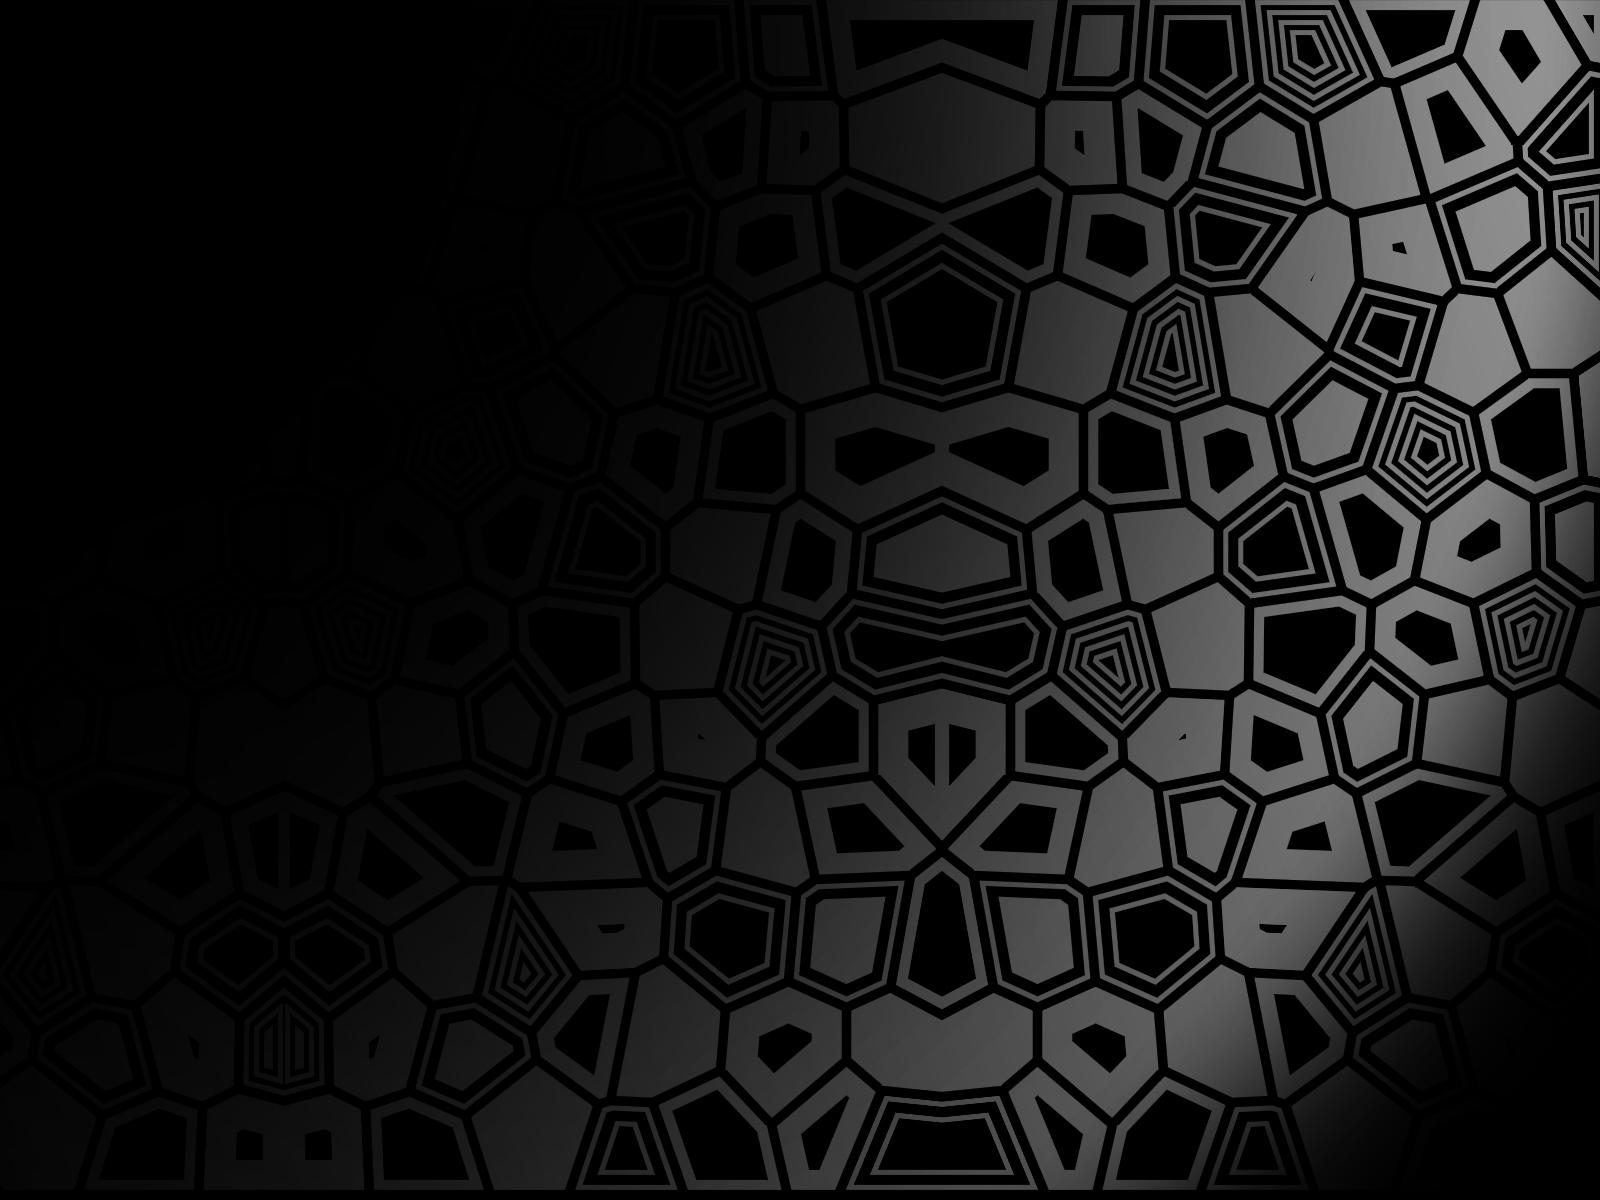
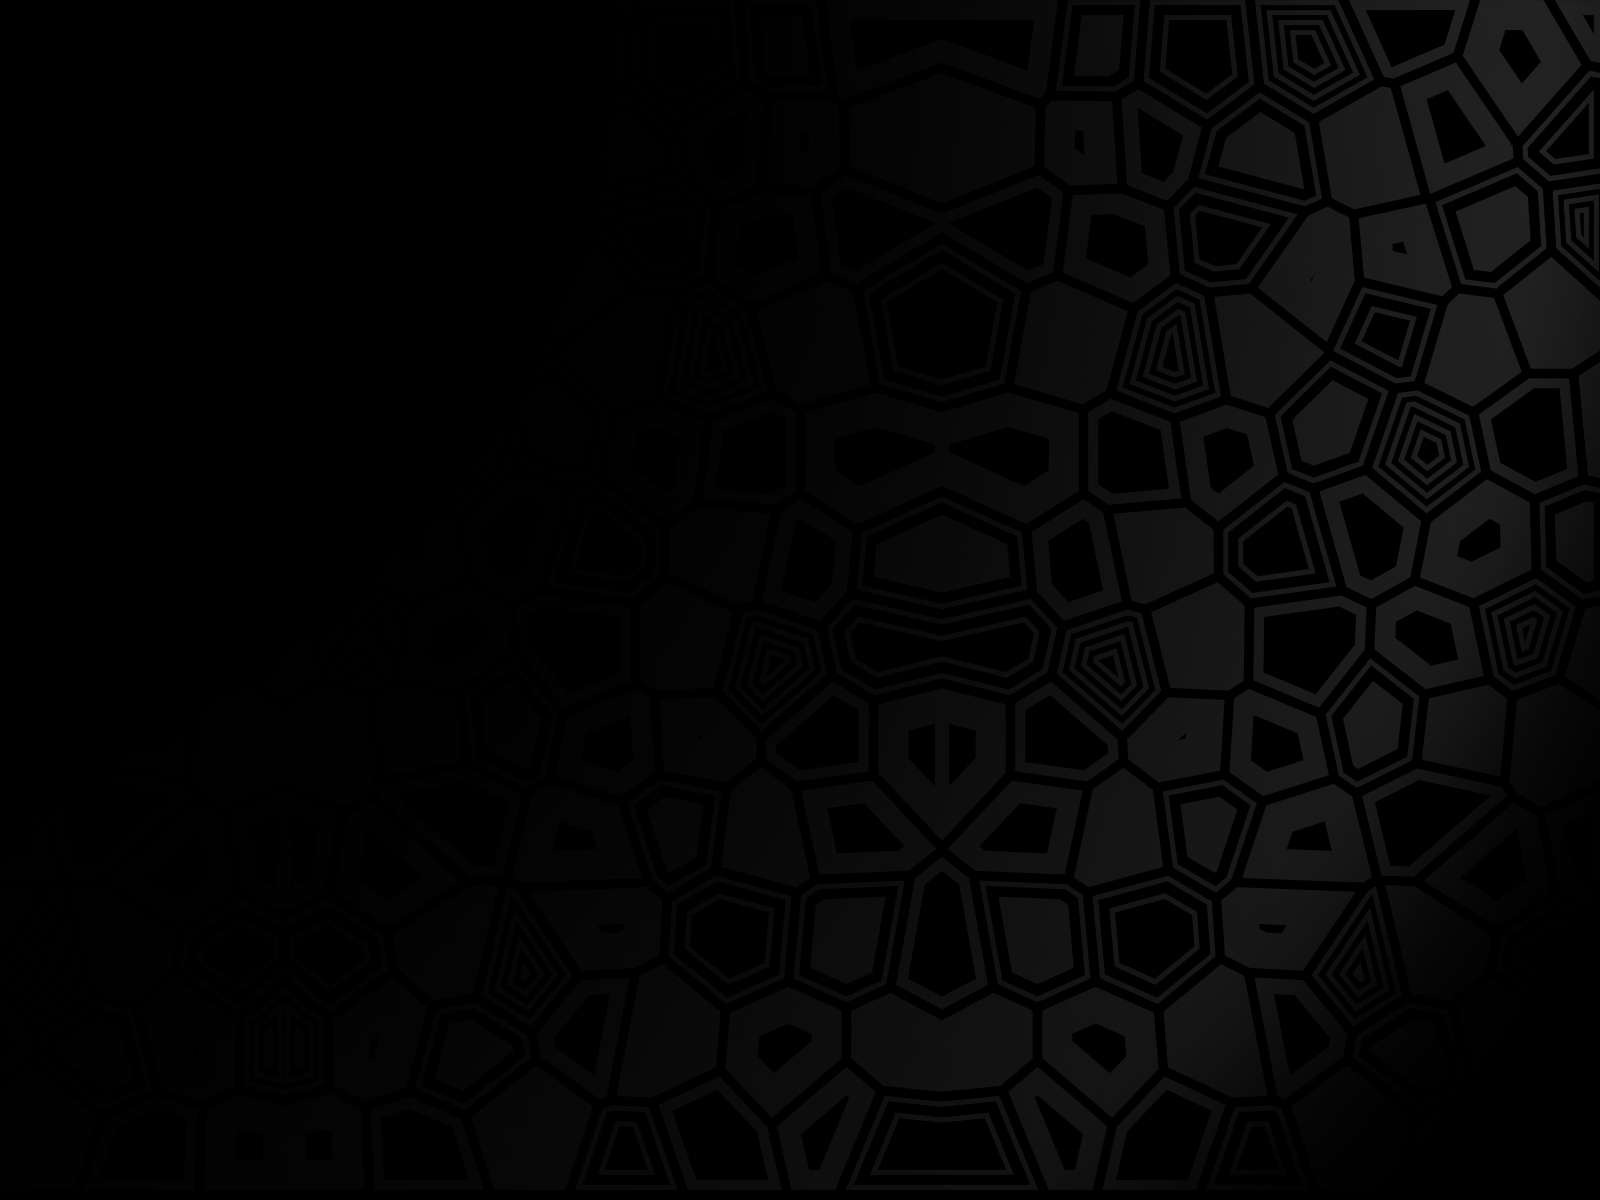
darken image itself

Changed region(s): [[0.3125, 0.0, 1.0, 1.0]]

diff --git a/public/css/blackdoc.css b/public/css/blackdoc.css
@@ -13,9 +13,7 @@ html { font-family: "Meslo", Helvetica, Arial, sans-serif; }
 body { 
     color: #848482; 
     background-color: #000000; 
-    background: linear-gradient(rgba(0, 0, 0, 0.82), 
-                                rgba(0, 0, 0, 0.82) 
-                               ), url('/images/bg.jpg');
+    background: url('/images/bg.jpg');
     background-clip: border-box !important;
     background-origin: padding-box !important;
     background-attachment: fixed !important;
